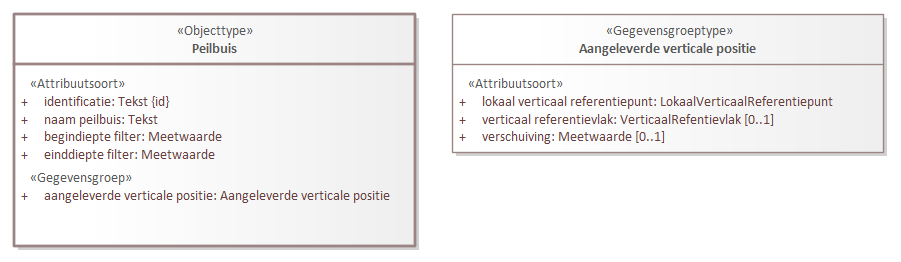
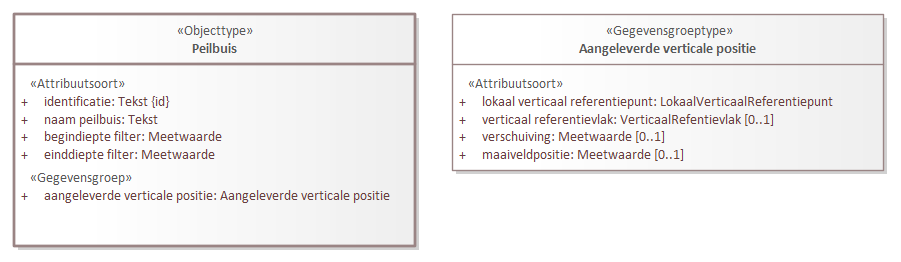
Conceptualmodel-MilieuhygienischbodemonderzoekSAD-0.2-1-20230126-20230523-102316

Changed region(s): [[0.4972, 0.5802, 0.9945, 0.6718]]

diff --git a/data/SAD-cat.msword.html b/data/SAD-cat.msword.html
@@ -15,7 +15,7 @@
    <body>
       <p>Conceptual model/Milieuhygienisch bodemonderzoek SAD/20230126</p>
       <p>Imvertor: 2.0.0</p>
-      <p>Model release: Conceptualmodel-MilieuhygienischbodemonderzoekSAD-0.2-1-20230126-20230516-115952</p>
+      <p>Model release: Conceptualmodel-MilieuhygienischbodemonderzoekSAD-0.2-1-20230126-20230523-102316</p>
       <hr>
       <section>
          <h1>Artikel 1 Definitie van registratieobject, entiteiten en attributen</h1>
@@ -578,7 +578,7 @@
                            </tr>
                         </tbody>
                      </table>
-                     </section><a class="anchor" id="detail_d94675e3450"></a><section id="detail_d94675e3450">
+                     </section><a class="anchor" id="detail_d95129e3450"></a><section id="detail_d95129e3450">
                      <h4>  registratiegeschiedenis</h4>
                      <table style="width: 100%;">
                         <colgroup style="width: 30%;"></colgroup>
@@ -611,7 +611,7 @@
                            </tr>
                         </tbody>
                      </table>
-                  </section><a class="anchor" id="detail_d94675e3635"></a><section id="detail_d94675e3635">
+                  </section><a class="anchor" id="detail_d95129e3635"></a><section id="detail_d95129e3635">
                      <h4>  gestandaardiseerde locatie bodemonderzoek</h4>
                      <table style="width: 100%;">
                         <colgroup style="width: 30%;"></colgroup>
@@ -654,7 +654,7 @@
                            </tr>
                         </tbody>
                      </table>
-                  </section><a class="anchor" id="detail_d94675e3869"></a><section id="detail_d94675e3869">
+                  </section><a class="anchor" id="detail_d95129e3869"></a><section id="detail_d95129e3869">
                      <h4>  rapport</h4>
                      <table style="width: 100%;">
                         <colgroup style="width: 30%;"></colgroup>
@@ -1599,7 +1599,7 @@
                      </section>
                </section><a class="anchor" id="graph_EAID_40FFF5B9_99C5_4c21_9D72_A3D1DD3C857F"></a><a class="anchor" id="global_class_Model_Boring"></a><section id="global_class_Model_Boring">
                   <h3>   Boring</h3>
-                  <div class="imageinfo "><img src="Images/EAID_48BB49BC_4D65_45ad_AED4_007A19BB43F2.png" usemap="#imagemap-EAID_48BB49BC_4D65_45ad_AED4_007A19BB43F2" alt="Diagram "><map name="imagemap-EAID_48BB49BC_4D65_45ad_AED4_007A19BB43F2"><area shape="rect" alt="Gestandaardiseerde locatie boring" coords="479,14,786,135" href="#graph_EAID_BF6D500F_4907_42e7_A971_3FAD6EFB2A34"><area shape="rect" alt="Aangeleverde verticale positie" coords="479,158,849,297" href="#graph_EAID_1E52594C_6770_4a6a_A72F_F625CA2432F2"><area shape="rect" alt="Boring" coords="14,14,449,265" href="#graph_EAID_40FFF5B9_99C5_4c21_9D72_A3D1DD3C857F"></map><p><b></b></p>
+                  <div class="imageinfo "><img src="Images/EAID_48BB49BC_4D65_45ad_AED4_007A19BB43F2.png" usemap="#imagemap-EAID_48BB49BC_4D65_45ad_AED4_007A19BB43F2" alt="Diagram "><map name="imagemap-EAID_48BB49BC_4D65_45ad_AED4_007A19BB43F2"><area shape="rect" alt="Gestandaardiseerde locatie boring" coords="479,14,786,135" href="#graph_EAID_BF6D500F_4907_42e7_A971_3FAD6EFB2A34"><area shape="rect" alt="Aangeleverde verticale positie" coords="479,158,849,315" href="#graph_EAID_1E52594C_6770_4a6a_A72F_F625CA2432F2"><area shape="rect" alt="Boring" coords="14,14,449,265" href="#graph_EAID_40FFF5B9_99C5_4c21_9D72_A3D1DD3C857F"></map><p><b></b></p>
                   </div>
                   <table style="width: 100%;">
                      <colgroup style="width: 30%;"></colgroup>
@@ -1845,7 +1845,7 @@
                            </tr>
                         </tbody>
                      </table>
-                     </section><a class="anchor" id="detail_d94675e8500"></a><section id="detail_d94675e8500">
+                     </section><a class="anchor" id="detail_d95129e8500"></a><section id="detail_d95129e8500">
                      <h4>  gestandaardiseerde locatie boring</h4>
                      <table style="width: 100%;">
                         <colgroup style="width: 30%;"></colgroup>
@@ -1879,7 +1879,7 @@
                            </tr>
                         </tbody>
                      </table>
-                  </section><a class="anchor" id="detail_d94675e8685"></a><section id="detail_d94675e8685">
+                  </section><a class="anchor" id="detail_d95129e8685"></a><section id="detail_d95129e8685">
                      <h4>  aangeleverde verticale positie</h4>
                      <table style="width: 100%;">
                         <colgroup style="width: 30%;"></colgroup>
@@ -2155,7 +2155,7 @@
                      </section>
                </section><a class="anchor" id="graph_EAID_1E52594C_6770_4a6a_A72F_F625CA2432F2"></a><a class="anchor" id="global_class_Model_Aangeleverdeverticalepositie"></a><section id="global_class_Model_Aangeleverdeverticalepositie">
                   <h3>   Aangeleverde verticale positie</h3>
-                  <div class="imageinfo "><img src="Images/EAID_D8905903_B357_47e0_9CBB_F6C50061E3FC.png" usemap="#imagemap-EAID_D8905903_B357_47e0_9CBB_F6C50061E3FC" alt="Diagram "><map name="imagemap-EAID_D8905903_B357_47e0_9CBB_F6C50061E3FC"><area shape="rect" alt="Aangeleverde verticale positie" coords="14,14,446,153" href="#graph_EAID_1E52594C_6770_4a6a_A72F_F625CA2432F2"></map><p><b></b></p>
+                  <div class="imageinfo "><img src="Images/EAID_D8905903_B357_47e0_9CBB_F6C50061E3FC.png" usemap="#imagemap-EAID_D8905903_B357_47e0_9CBB_F6C50061E3FC" alt="Diagram "><map name="imagemap-EAID_D8905903_B357_47e0_9CBB_F6C50061E3FC"><area shape="rect" alt="Aangeleverde verticale positie" coords="14,14,446,171" href="#graph_EAID_1E52594C_6770_4a6a_A72F_F625CA2432F2"></map><p><b></b></p>
                   </div>
                   <table style="width: 100%;">
                      <colgroup style="width: 30%;"></colgroup>
@@ -2329,6 +2329,60 @@
                                     verticaal referentiepunt boven het verticaal referentievlak. Met behulp van de verschuiving
                                     kan een diepte omgerekend worden naar een positie ten opzichte van het verticaal referentievlak.
                                     Dit gegeven wordt bij milieuhygiënisch bodemonderzoek veelal niet bepaald.</p>
+                                 </td>
+                           </tr>
+                        </tbody>
+                     </table>
+                     </section><a class="anchor" id="detail_attribute_Model_Aangeleverdeverticalepositie_maaiveldpositie"></a><section id="detail_attribute_Model_Aangeleverdeverticalepositie_maaiveldpositie">
+                     <h4>  maaiveldpositie</h4>
+                     
+                     <table style="width: 100%;">
+                        <colgroup style="width: 30%;"></colgroup>
+                        <colgroup style="width: 70%;"></colgroup>
+                        <tbody>
+                           <tr>
+                              <th>Type gegeven</th>
+                              <td>Attribuut van Aangeleverde verticale positie</td>
+                           </tr>
+                           <tr>
+                              <th>Definitie</th>
+                              <td>
+                                 
+                                 <p>De positie van het maaiveld ten opzichte van het lokaal verticaal referentiepunt.</p>
+                                 </td>
+                           </tr>
+                           <tr>
+                              <th>Juridische status</th>
+                              <td>Authentiek</td>
+                           </tr>
+                           <tr>
+                              <th>Kardinaliteit</th>
+                              <td>0..1</td>
+                           </tr>
+                           <tr>
+                              <th>Domein</th>
+                              <td></td>
+                           </tr>
+                           <tr>
+                              <th>&nbsp;&nbsp;Naam</th>
+                              <td>Meetwaarde 
+                                 3.3</td>
+                           </tr>
+                           <tr>
+                              <th>&nbsp;&nbsp;Eenheid</th>
+                              <td>m (meter)</td>
+                           </tr>
+                           <tr>
+                              <th>&nbsp;&nbsp;Waardebereik</th>
+                              <td>-1 tot 2</td>
+                           </tr>
+                           <tr>
+                              <th>Toelichting</th>
+                              <td>
+                                 
+                                 <p>De positie van het maaiveld is van belang om de metingen in de peilbuis in de juiste
+                                    ruimtelijke context te kunnen plaatsen. Dit gegeven is alleen relevant voor het object
+                                    peilbuis.</p>
                                  </td>
                            </tr>
                         </tbody>
@@ -2807,7 +2861,7 @@
                            </tr>
                         </tbody>
                      </table>
-                     </section><a class="anchor" id="detail_d94675e11686"></a><section id="detail_d94675e11686">
+                     </section><a class="anchor" id="detail_d95129e11892"></a><section id="detail_d95129e11892">
                      <h4>  grond</h4>
                      <table style="width: 100%;">
                         <colgroup style="width: 30%;"></colgroup>
@@ -2840,7 +2894,7 @@
                            </tr>
                         </tbody>
                      </table>
-                  </section><a class="anchor" id="detail_d94675e11871"></a><section id="detail_d94675e11871">
+                  </section><a class="anchor" id="detail_d95129e12077"></a><section id="detail_d95129e12077">
                      <h4>  kleur</h4>
                      <table style="width: 100%;">
                         <colgroup style="width: 30%;"></colgroup>
@@ -2873,7 +2927,7 @@
                            </tr>
                         </tbody>
                      </table>
-                  </section><a class="anchor" id="detail_d94675e12056"></a><section id="detail_d94675e12056">
+                  </section><a class="anchor" id="detail_d95129e12262"></a><section id="detail_d95129e12262">
                      <h4>  bijzonderheid</h4>
                      <table style="width: 100%;">
                         <colgroup style="width: 30%;"></colgroup>
@@ -4038,7 +4092,7 @@
                   </section>
                </section><a class="anchor" id="graph_EAID_0075B243_E663_4ee7_9154_9D5DE12CCB21"></a><a class="anchor" id="global_class_Model_Peilbuis"></a><section id="global_class_Model_Peilbuis">
                   <h3>   Peilbuis</h3>
-                  <div class="imageinfo "><img src="Images/EAID_90D0CFE9_39E0_41d5_A741_9CB1B9C4157A.png" usemap="#imagemap-EAID_90D0CFE9_39E0_41d5_A741_9CB1B9C4157A" alt="Diagram "><map name="imagemap-EAID_90D0CFE9_39E0_41d5_A741_9CB1B9C4157A"><area shape="rect" alt="Aangeleverde verticale positie" coords="452,14,884,153" href="#graph_EAID_1E52594C_6770_4a6a_A72F_F625CA2432F2"><area shape="rect" alt="Peilbuis" coords="14,14,416,247" href="#graph_EAID_0075B243_E663_4ee7_9154_9D5DE12CCB21"></map><p><b></b></p>
+                  <div class="imageinfo "><img src="Images/EAID_90D0CFE9_39E0_41d5_A741_9CB1B9C4157A.png" usemap="#imagemap-EAID_90D0CFE9_39E0_41d5_A741_9CB1B9C4157A" alt="Diagram "><map name="imagemap-EAID_90D0CFE9_39E0_41d5_A741_9CB1B9C4157A"><area shape="rect" alt="Aangeleverde verticale positie" coords="452,14,884,171" href="#graph_EAID_1E52594C_6770_4a6a_A72F_F625CA2432F2"><area shape="rect" alt="Peilbuis" coords="14,14,416,247" href="#graph_EAID_0075B243_E663_4ee7_9154_9D5DE12CCB21"></map><p><b></b></p>
                   </div>
                   <table style="width: 100%;">
                      <colgroup style="width: 30%;"></colgroup>
@@ -4231,7 +4285,7 @@
                            </tr>
                         </tbody>
                      </table>
-                     </section><a class="anchor" id="detail_d94675e17344"></a><section id="detail_d94675e17344">
+                     </section><a class="anchor" id="detail_d95129e17550"></a><section id="detail_d95129e17550">
                      <h4>  aangeleverde verticale positie</h4>
                      <table style="width: 100%;">
                         <colgroup style="width: 30%;"></colgroup>
@@ -4637,7 +4691,7 @@
                            </tr>
                         </tbody>
                      </table>
-                     </section><a class="anchor" id="detail_d94675e18799"></a><section id="detail_d94675e18799">
+                     </section><a class="anchor" id="detail_d95129e19005"></a><section id="detail_d95129e19005">
                      <h4>  kleur</h4>
                      <table style="width: 100%;">
                         <colgroup style="width: 30%;"></colgroup>

diff --git a/data/SAD-cat.respec.html b/data/SAD-cat.respec.html
@@ -554,7 +554,7 @@
                   </tr>
                </tbody>
             </table>
-            </section><a class="anchor" id="detail_d94675e3450"></a><section id="detail_d94675e3450">
+            </section><a class="anchor" id="detail_d95129e3450"></a><section id="detail_d95129e3450">
             <h4>  registratiegeschiedenis</h4>
             <table style="width: 100%;">
                <colgroup style="width: 30%;"></colgroup>
@@ -587,7 +587,7 @@
                   </tr>
                </tbody>
             </table>
-         </section><a class="anchor" id="detail_d94675e3635"></a><section id="detail_d94675e3635">
+         </section><a class="anchor" id="detail_d95129e3635"></a><section id="detail_d95129e3635">
             <h4>  gestandaardiseerde locatie bodemonderzoek</h4>
             <table style="width: 100%;">
                <colgroup style="width: 30%;"></colgroup>
@@ -630,7 +630,7 @@
                   </tr>
                </tbody>
             </table>
-         </section><a class="anchor" id="detail_d94675e3869"></a><section id="detail_d94675e3869">
+         </section><a class="anchor" id="detail_d95129e3869"></a><section id="detail_d95129e3869">
             <h4>  rapport</h4>
             <table style="width: 100%;">
                <colgroup style="width: 30%;"></colgroup>
@@ -1575,7 +1575,7 @@
             </section>
       </section><a class="anchor" id="graph_EAID_40FFF5B9_99C5_4c21_9D72_A3D1DD3C857F"></a><a class="anchor" id="global_class_Model_Boring"></a><section id="global_class_Model_Boring">
          <h3>   Boring</h3>
-         <div class="imageinfo "><img src="data/Images/EAID_48BB49BC_4D65_45ad_AED4_007A19BB43F2.png" usemap="#imagemap-EAID_48BB49BC_4D65_45ad_AED4_007A19BB43F2" alt="Diagram "><map name="imagemap-EAID_48BB49BC_4D65_45ad_AED4_007A19BB43F2"><area shape="rect" alt="Gestandaardiseerde locatie boring" coords="479,14,786,135" href="#graph_EAID_BF6D500F_4907_42e7_A971_3FAD6EFB2A34"><area shape="rect" alt="Aangeleverde verticale positie" coords="479,158,849,297" href="#graph_EAID_1E52594C_6770_4a6a_A72F_F625CA2432F2"><area shape="rect" alt="Boring" coords="14,14,449,265" href="#graph_EAID_40FFF5B9_99C5_4c21_9D72_A3D1DD3C857F"></map><p><b></b></p>
+         <div class="imageinfo "><img src="data/Images/EAID_48BB49BC_4D65_45ad_AED4_007A19BB43F2.png" usemap="#imagemap-EAID_48BB49BC_4D65_45ad_AED4_007A19BB43F2" alt="Diagram "><map name="imagemap-EAID_48BB49BC_4D65_45ad_AED4_007A19BB43F2"><area shape="rect" alt="Gestandaardiseerde locatie boring" coords="479,14,786,135" href="#graph_EAID_BF6D500F_4907_42e7_A971_3FAD6EFB2A34"><area shape="rect" alt="Aangeleverde verticale positie" coords="479,158,849,315" href="#graph_EAID_1E52594C_6770_4a6a_A72F_F625CA2432F2"><area shape="rect" alt="Boring" coords="14,14,449,265" href="#graph_EAID_40FFF5B9_99C5_4c21_9D72_A3D1DD3C857F"></map><p><b></b></p>
          </div>
          <table style="width: 100%;">
             <colgroup style="width: 30%;"></colgroup>
@@ -1821,7 +1821,7 @@
                   </tr>
                </tbody>
             </table>
-            </section><a class="anchor" id="detail_d94675e8500"></a><section id="detail_d94675e8500">
+            </section><a class="anchor" id="detail_d95129e8500"></a><section id="detail_d95129e8500">
             <h4>  gestandaardiseerde locatie boring</h4>
             <table style="width: 100%;">
                <colgroup style="width: 30%;"></colgroup>
@@ -1855,7 +1855,7 @@
                   </tr>
                </tbody>
             </table>
-         </section><a class="anchor" id="detail_d94675e8685"></a><section id="detail_d94675e8685">
+         </section><a class="anchor" id="detail_d95129e8685"></a><section id="detail_d95129e8685">
             <h4>  aangeleverde verticale positie</h4>
             <table style="width: 100%;">
                <colgroup style="width: 30%;"></colgroup>
@@ -2131,7 +2131,7 @@
             </section>
       </section><a class="anchor" id="graph_EAID_1E52594C_6770_4a6a_A72F_F625CA2432F2"></a><a class="anchor" id="global_class_Model_Aangeleverdeverticalepositie"></a><section id="global_class_Model_Aangeleverdeverticalepositie">
          <h3>   Aangeleverde verticale positie</h3>
-         <div class="imageinfo "><img src="data/Images/EAID_D8905903_B357_47e0_9CBB_F6C50061E3FC.png" usemap="#imagemap-EAID_D8905903_B357_47e0_9CBB_F6C50061E3FC" alt="Diagram "><map name="imagemap-EAID_D8905903_B357_47e0_9CBB_F6C50061E3FC"><area shape="rect" alt="Aangeleverde verticale positie" coords="14,14,446,153" href="#graph_EAID_1E52594C_6770_4a6a_A72F_F625CA2432F2"></map><p><b></b></p>
+         <div class="imageinfo "><img src="data/Images/EAID_D8905903_B357_47e0_9CBB_F6C50061E3FC.png" usemap="#imagemap-EAID_D8905903_B357_47e0_9CBB_F6C50061E3FC" alt="Diagram "><map name="imagemap-EAID_D8905903_B357_47e0_9CBB_F6C50061E3FC"><area shape="rect" alt="Aangeleverde verticale positie" coords="14,14,446,171" href="#graph_EAID_1E52594C_6770_4a6a_A72F_F625CA2432F2"></map><p><b></b></p>
          </div>
          <table style="width: 100%;">
             <colgroup style="width: 30%;"></colgroup>
@@ -2305,6 +2305,60 @@
                            verticaal referentiepunt boven het verticaal referentievlak. Met behulp van de verschuiving
                            kan een diepte omgerekend worden naar een positie ten opzichte van het verticaal referentievlak.
                            Dit gegeven wordt bij milieuhygiënisch bodemonderzoek veelal niet bepaald.</p>
+                        </td>
+                  </tr>
+               </tbody>
+            </table>
+            </section><a class="anchor" id="detail_attribute_Model_Aangeleverdeverticalepositie_maaiveldpositie"></a><section id="detail_attribute_Model_Aangeleverdeverticalepositie_maaiveldpositie">
+            <h4>  maaiveldpositie</h4>
+            
+            <table style="width: 100%;">
+               <colgroup style="width: 30%;"></colgroup>
+               <colgroup style="width: 70%;"></colgroup>
+               <tbody>
+                  <tr>
+                     <th>Type gegeven</th>
+                     <td>Attribuut van Aangeleverde verticale positie</td>
+                  </tr>
+                  <tr>
+                     <th>Definitie</th>
+                     <td>
+                        
+                        <p>De positie van het maaiveld ten opzichte van het lokaal verticaal referentiepunt.</p>
+                        </td>
+                  </tr>
+                  <tr>
+                     <th>Juridische status</th>
+                     <td>Authentiek</td>
+                  </tr>
+                  <tr>
+                     <th>Kardinaliteit</th>
+                     <td>0..1</td>
+                  </tr>
+                  <tr>
+                     <th>Domein</th>
+                     <td></td>
+                  </tr>
+                  <tr>
+                     <th>&nbsp;&nbsp;Naam</th>
+                     <td>Meetwaarde 
+                        3.3</td>
+                  </tr>
+                  <tr>
+                     <th>&nbsp;&nbsp;Eenheid</th>
+                     <td>m (meter)</td>
+                  </tr>
+                  <tr>
+                     <th>&nbsp;&nbsp;Waardebereik</th>
+                     <td>-1 tot 2</td>
+                  </tr>
+                  <tr>
+                     <th>Toelichting</th>
+                     <td>
+                        
+                        <p>De positie van het maaiveld is van belang om de metingen in de peilbuis in de juiste
+                           ruimtelijke context te kunnen plaatsen. Dit gegeven is alleen relevant voor het object
+                           peilbuis.</p>
                         </td>
                   </tr>
                </tbody>
@@ -2783,7 +2837,7 @@
                   </tr>
                </tbody>
             </table>
-            </section><a class="anchor" id="detail_d94675e11686"></a><section id="detail_d94675e11686">
+            </section><a class="anchor" id="detail_d95129e11892"></a><section id="detail_d95129e11892">
             <h4>  grond</h4>
             <table style="width: 100%;">
                <colgroup style="width: 30%;"></colgroup>
@@ -2816,7 +2870,7 @@
                   </tr>
                </tbody>
             </table>
-         </section><a class="anchor" id="detail_d94675e11871"></a><section id="detail_d94675e11871">
+         </section><a class="anchor" id="detail_d95129e12077"></a><section id="detail_d95129e12077">
             <h4>  kleur</h4>
             <table style="width: 100%;">
                <colgroup style="width: 30%;"></colgroup>
@@ -2849,7 +2903,7 @@
                   </tr>
                </tbody>
             </table>
-         </section><a class="anchor" id="detail_d94675e12056"></a><section id="detail_d94675e12056">
+         </section><a class="anchor" id="detail_d95129e12262"></a><section id="detail_d95129e12262">
             <h4>  bijzonderheid</h4>
             <table style="width: 100%;">
                <colgroup style="width: 30%;"></colgroup>
@@ -4014,7 +4068,7 @@
          </section>
       </section><a class="anchor" id="graph_EAID_0075B243_E663_4ee7_9154_9D5DE12CCB21"></a><a class="anchor" id="global_class_Model_Peilbuis"></a><section id="global_class_Model_Peilbuis">
          <h3>   Peilbuis</h3>
-         <div class="imageinfo "><img src="data/Images/EAID_90D0CFE9_39E0_41d5_A741_9CB1B9C4157A.png" usemap="#imagemap-EAID_90D0CFE9_39E0_41d5_A741_9CB1B9C4157A" alt="Diagram "><map name="imagemap-EAID_90D0CFE9_39E0_41d5_A741_9CB1B9C4157A"><area shape="rect" alt="Aangeleverde verticale positie" coords="452,14,884,153" href="#graph_EAID_1E52594C_6770_4a6a_A72F_F625CA2432F2"><area shape="rect" alt="Peilbuis" coords="14,14,416,247" href="#graph_EAID_0075B243_E663_4ee7_9154_9D5DE12CCB21"></map><p><b></b></p>
+         <div class="imageinfo "><img src="data/Images/EAID_90D0CFE9_39E0_41d5_A741_9CB1B9C4157A.png" usemap="#imagemap-EAID_90D0CFE9_39E0_41d5_A741_9CB1B9C4157A" alt="Diagram "><map name="imagemap-EAID_90D0CFE9_39E0_41d5_A741_9CB1B9C4157A"><area shape="rect" alt="Aangeleverde verticale positie" coords="452,14,884,171" href="#graph_EAID_1E52594C_6770_4a6a_A72F_F625CA2432F2"><area shape="rect" alt="Peilbuis" coords="14,14,416,247" href="#graph_EAID_0075B243_E663_4ee7_9154_9D5DE12CCB21"></map><p><b></b></p>
          </div>
          <table style="width: 100%;">
             <colgroup style="width: 30%;"></colgroup>
@@ -4207,7 +4261,7 @@
                   </tr>
                </tbody>
             </table>
-            </section><a class="anchor" id="detail_d94675e17344"></a><section id="detail_d94675e17344">
+            </section><a class="anchor" id="detail_d95129e17550"></a><section id="detail_d95129e17550">
             <h4>  aangeleverde verticale positie</h4>
             <table style="width: 100%;">
                <colgroup style="width: 30%;"></colgroup>
@@ -4613,7 +4667,7 @@
                   </tr>
                </tbody>
             </table>
-            </section><a class="anchor" id="detail_d94675e18799"></a><section id="detail_d94675e18799">
+            </section><a class="anchor" id="detail_d95129e19005"></a><section id="detail_d95129e19005">
             <h4>  kleur</h4>
             <table style="width: 100%;">
                <colgroup style="width: 30%;"></colgroup>
